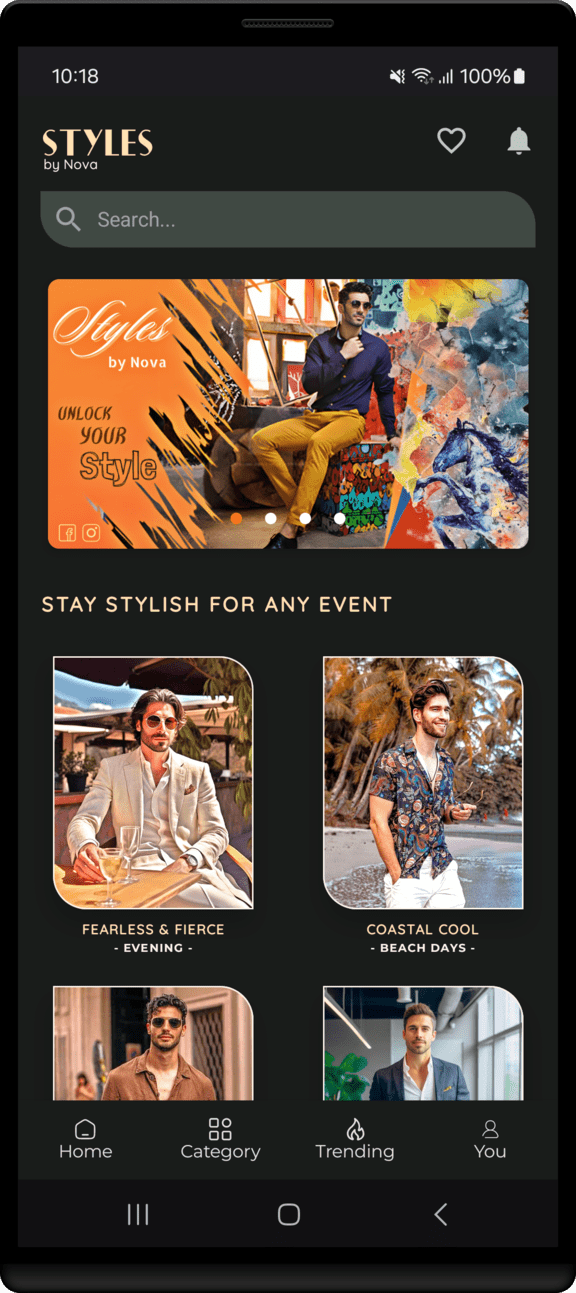
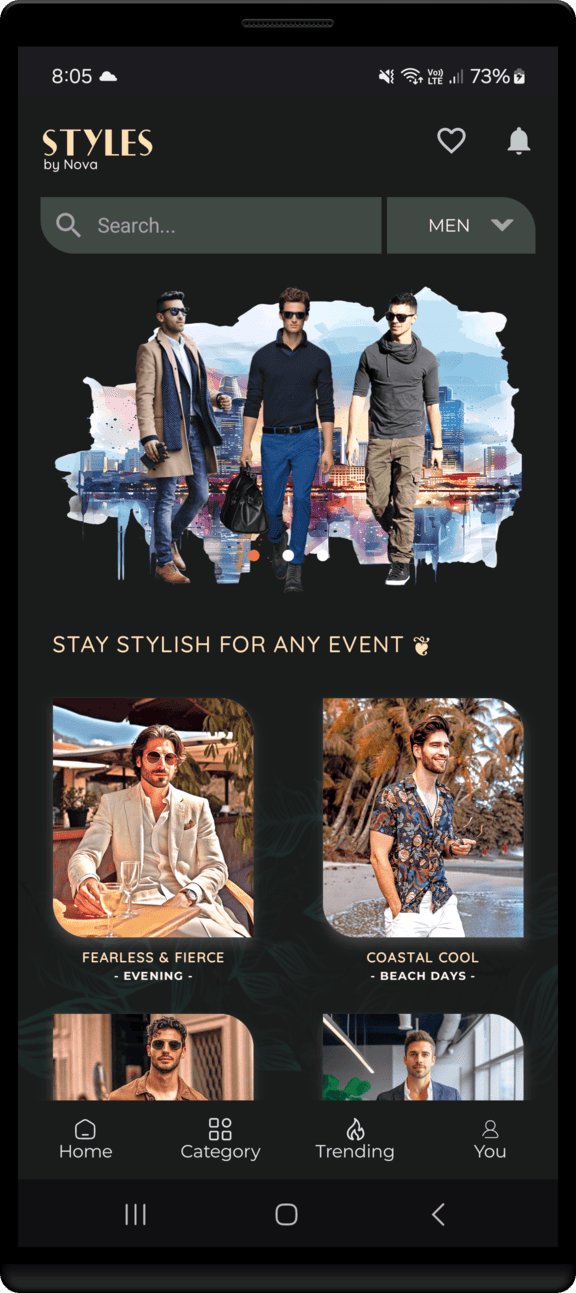
feat [ui-design] : Add new screenshots

diff --git a/app/src/main/java/novalogics/android/styles/presentation/ui/home/component/ViewPagerUnit.kt b/app/src/main/java/novalogics/android/styles/presentation/ui/home/component/ViewPagerUnit.kt
@@ -32,13 +32,13 @@ fun ViewPagerUnit(
     ) {
 
         Image(
-            painter = painterResource(id = R.drawable.img_banner_bg_1),
+            painter = painterResource(id = R.drawable.img_banner_bg_2),
             contentDescription = "Loading placeholder",
             modifier = Modifier.fillMaxSize().padding(start = 16.dp, end = 16.dp, top = 8.dp, bottom = 8.dp),
             contentScale = ContentScale.FillBounds
         )
         Image(
-            painter = painterResource(id = R.drawable.img_banner_women_1),
+            painter = painterResource(id = R.drawable.img_banner_men_1),
             contentDescription = "Loading placeholder",
             modifier = Modifier.fillMaxSize().padding(2.dp),
             contentScale = ContentScale.Inside

diff --git a/app/src/main/java/novalogics/android/styles/presentation/ui/home/HomeViewModel.kt b/app/src/main/java/novalogics/android/styles/presentation/ui/home/HomeViewModel.kt
@@ -28,7 +28,7 @@ class HomeViewModel @Inject constructor(
             ui.copy(
                 isLoading = true,
                 bannerData = repositoryOffline.getBannerUrls(),
-                eventData = repositoryOffline.getDemoEventsWomen()
+                eventData = repositoryOffline.getDemoEventsMen()
             )
         }
 
